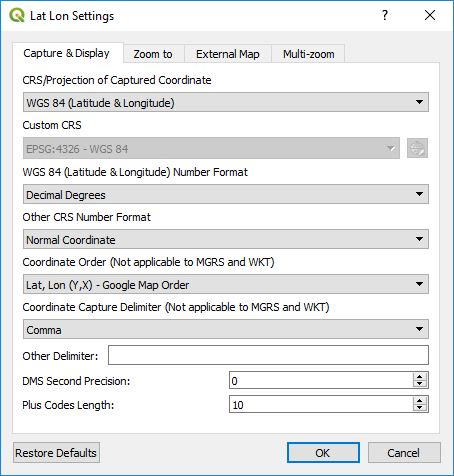
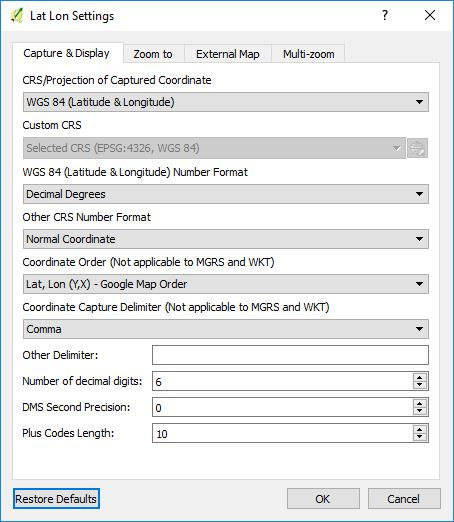
update for setting the number of capture digits

diff --git a/copyLatLonTool.py b/copyLatLonTool.py
@@ -52,25 +52,25 @@ class CopyLatLonTool(QgsMapToolEmitPoint):
                     else:
                         msg = self.latlon.getDDMMSSLonLatOrder(delimiter)
                 elif self.settings.wgs84NumberFormat == self.settings.Wgs84TypeWKT: # WKT
-                    msg = 'POINT({} {})'.format(self.latlon.lon, self.latlon.lat)
+                    msg = 'POINT({:.{prec}f} {:.{prec}f})'.format(self.latlon.lon, self.latlon.lat, prec=self.settings.decimalDigits)
                 elif self.settings.wgs84NumberFormat == self.settings.Wgs84TypeGeoJSON: # GeoJSON
-                    msg = '{{"type": "Point","coordinates": [{},{}]}}'.format(self.latlon.lon, self.latlon.lat)
+                    msg = '{{"type": "Point","coordinates": [{:.{prec}f},{:.{prec}f}]}}'.format(self.latlon.lon, self.latlon.lat, prec=self.settings.decimalDigits)
                 else: # decimal degrees
                     if self.settings.coordOrder == self.settings.OrderYX:
-                        msg = '{}{}{}'.format(self.latlon.lat,delimiter,self.latlon.lon)
+                        msg = '{:.{prec}f}{}{:.{prec}f}'.format(self.latlon.lat,delimiter,self.latlon.lon,prec=self.settings.decimalDigits)
                     else:
-                        msg = '{}{}{}'.format(self.latlon.lon,delimiter,self.latlon.lat)
+                        msg = '{:.{prec}f}{}{:.{prec}f}'.format(self.latlon.lon,delimiter,self.latlon.lat,prec=self.settings.decimalDigits)
             else:
                 msg = None
         elif self.settings.captureProjIsProjectCRS():
             # Projection in the project CRS
             if self.settings.otherNumberFormat == 0: # Numerical
                 if self.settings.coordOrder == self.settings.OrderYX:
-                    msg = '{}{}{}'.format(pt.y(),delimiter,pt.x())
+                    msg = '{:.{prec}f}{}{:.{prec}f}'.format(pt.y(),delimiter,pt.x(),prec=self.settings.decimalDigits)
                 else:
-                    msg = '{}{}{}'.format(pt.x(),delimiter,pt.y())
+                    msg = '{:.{prec}f}{}{:.{prec}f}'.format(pt.x(),delimiter,pt.y(),prec=self.settings.decimalDigits)
             else:
-                msg = 'POINT({} {})'.format(pt.x(), pt.y())
+                msg = 'POINT({:.{prec}f} {:.{prec}f})'.format(pt.x(), pt.y(),prec=self.settings.decimalDigits)
         elif self.settings.captureProjIsCustomCRS():
             # Projection is a custom CRS
             canvasCRS = self.canvas.mapSettings().destinationCrs()
@@ -79,11 +79,11 @@ class CopyLatLonTool(QgsMapToolEmitPoint):
             pt = transform.transform(pt.x(), pt.y())
             if self.settings.otherNumberFormat == 0: # Numerical
                 if self.settings.coordOrder == self.settings.OrderYX:
-                    msg = '{}{}{}'.format(pt.y(),delimiter,pt.x())
+                    msg = '{:.{prec}f}{}{:.{prec}f}'.format(pt.y(),delimiter,pt.x(),prec=self.settings.decimalDigits)
                 else:
-                    msg = '{}{}{}'.format(pt.x(),delimiter,pt.y())
+                    msg = '{:.{prec}f}{}{:.{prec}f}'.format(pt.x(),delimiter,pt.y(),prec=self.settings.decimalDigits)
             else:
-                msg = 'POINT({} {})'.format(pt.x(), pt.y())
+                msg = 'POINT({:.{prec}f} {:.{prec}f})'.format(pt.x(), pt.y(),prec=self.settings.decimalDigits)
         elif self.settings.captureProjIsMGRS():
             # Make sure the coordinate is transformed to EPSG:4326
             canvasCRS = self.canvas.mapSettings().destinationCrs()

diff --git a/settings.py b/settings.py
@@ -92,6 +92,7 @@ class SettingsWidget(QDialog, FORM_CLASS):
         self.precisionSpinBox.setValue(0)
         self.captureProjectionSelectionWidget.setCrs(epsg4326)
         self.plusCodesSpinBox.setValue(10)
+        self.digitsSpinBox.setValue(6)
         
         ### ZOOM TO SETTINGS ###
         self.zoomToProjectionComboBox.setCurrentIndex(self.ProjectionTypeWgs84)
@@ -126,6 +127,7 @@ class SettingsWidget(QDialog, FORM_CLASS):
         self.wgs84NumberFormat = int(settings.value('/LatLonTools/WGS84NumberFormat', 0))
         self.otherNumberFormat = int(settings.value('/LatLonTools/OtherNumberFormat', 0))
         self.plusCodesLength = int(settings.value('/LatLonTools/PlusCodesLength', 10))
+        self.decimalDigits = int(settings.value('/LatLonTools/DecimalDigits', 6))
         
         ### ZOOM TO SETTINGS ###
         self.zoomToCoordOrder = int(settings.value('/LatLonTools/ZoomToCoordOrder', self.OrderYX))
@@ -174,6 +176,7 @@ class SettingsWidget(QDialog, FORM_CLASS):
             
         settings.setValue('/LatLonTools/DMSPrecision', self.precisionSpinBox.value())
         settings.setValue('/LatLonTools/PlusCodesLength', self.plusCodesSpinBox.value())
+        settings.setValue('/LatLonTools/DecimalDigits', self.digitsSpinBox.value())
         
         ### ZOOM TO SETTINGS ###
         settings.setValue('/LatLonTools/ZoomToCoordType', int(self.zoomToProjectionComboBox.currentIndex()))

diff --git a/readme.md b/readme.md
@@ -85,7 +85,7 @@ By default ***Lat Lon Tools*** follows the **Google Map** convention making it p
 
 ## Settings
 
-> <div style="background-color: #FFE0DD; margin: 18px; padding: 8px;">The <b>CRS</b> and <b>coordinate order</b> are independently set for the coordinate capture, zoom to, and multi-zoom to tools. Be careful that when setting one of these settings, that you check the rest to make sure that they are set correctly for your needs.</div>
+> <div style="background-color: #FFE0DD; margin: 18px; padding: 8px;">The <b>CRS</b> and <b>coordinate order</b> are independently set for the coordinate capture, zoom to, and multi-zoom to tools. Be careful when setting one of these settings, that you check the rest to make sure that they are set correctly for your needs.</div>
 
 ### Capture & Display Settings
 
@@ -121,6 +121,7 @@ The order in which the coordinates are captured are determined by ***Coordinate 
     * **Tab** - This useful if you are pasting the coordinates into two columns of a spreadsheet.
     * **Space**
     * **Other** - With this selected, the contents of ***Other Delimiter*** is used.
+* ***Number of decimal digits*** - This is the number of significant decimal digits that are captured. The default is 6.
 * ***DMS Second Precision*** - Used when formatting DMS coordinates and specifies the number of digits after the decimal.
 * ***Plus Codes Length*** - Used when formatting Plus Code coordinates. The minimum value is 10.
 
